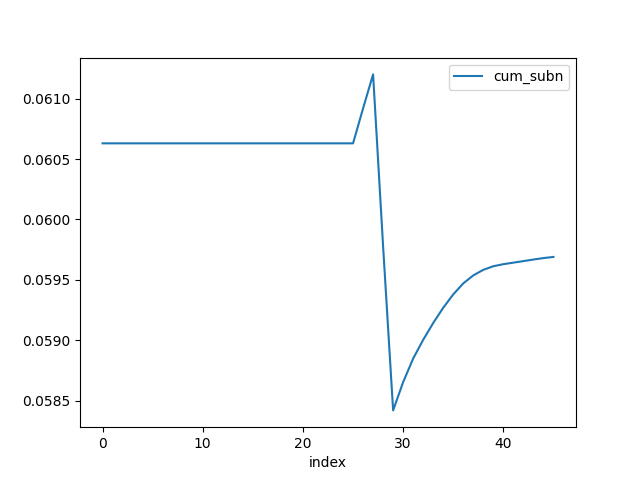
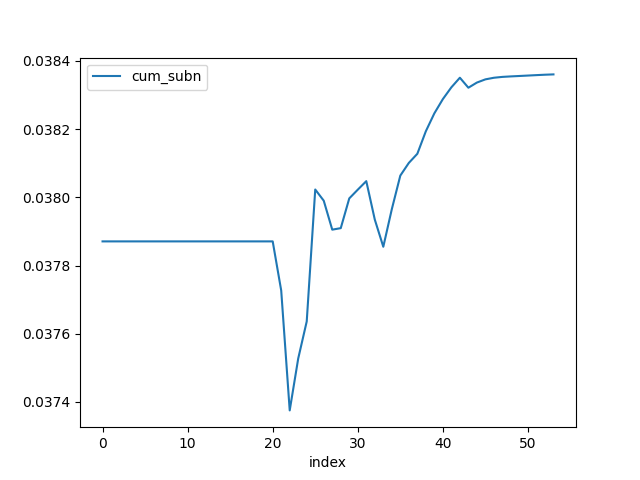
Using real cases for nowcasting ocupation

diff --git a/simulator/st_app_queue.py b/simulator/st_app_queue.py
@@ -4,7 +4,7 @@ import numpy as np
 import glob
 import os
 import base64
-from datetime import timedelta
+from datetime import timedelta, datetime
 
 from covid19 import data
 from covid19.utils import get_data_dir
@@ -196,16 +196,18 @@ def make_param_widgets_hospital_queue(location, w_granularity, defaults=DEFAULT_
             "available_rate_icu": available_rate_icu}
 
 @st.cache(show_spinner=False)
-def calculate_input_hospital_queue(model_output, sample_size, t_max, cases_df, place, date):
+def calculate_input_hospital_queue(model_output, sample_size, t_max, cases_df,real_cases, place, date):
     S, E, I, R, t = model_output
-    
-    previous_cases = cases_df[place]
-
+    real_cases_df = real_cases[0]
+    for i in range(real_cases_df['date'].shape[0]):
+        real_cases_df['date'].iloc[i] = datetime.strptime(real_cases_df['date'].iloc[i], '%Y-%m-%d')
+    real_cases_df = real_cases_df.set_index('date')
+    previous_cases = real_cases_df['real_newCases']
     # Formatting previous dates
     all_dates = pd.date_range(start=MIN_DATA_BRAZIL, end=date).strftime('%Y-%m-%d')
     all_dates_df = pd.DataFrame(index=all_dates,
                                 data={"dummy": np.zeros(len(all_dates))})
-    previous_cases = all_dates_df.join(previous_cases, how='left')['newCases']
+    previous_cases = all_dates_df.join(previous_cases, how='left')['real_newCases']
     cut_after = previous_cases.shape[0]
     
     # Calculating newly infected for all samples
@@ -234,14 +236,15 @@ def calculate_input_hospital_queue(model_output, sample_size, t_max, cases_df, p
 
     # Formatting the final otput
     df = (df
-          .assign(newly_infected_mean=df['newly_infected_mean'].combine_first(df['newCases']))
-          .assign(newly_infected_upper=df['newly_infected_upper'].combine_first(df['newCases']))
-          .assign(newly_infected_lower=df['newly_infected_lower'].combine_first(df['newCases']))
+          .assign(newly_infected_mean=df['newly_infected_mean'].combine_first(df['real_newCases']))
+          .assign(newly_infected_upper=df['newly_infected_upper'].combine_first(df['real_newCases']))
+          .assign(newly_infected_lower=df['newly_infected_lower'].combine_first(df['real_newCases']))
           .assign(newly_infected_lower=lambda df: df['newly_infected_lower'].clip(lower=0))
-          .drop(columns=['newCases', 'newly_infected_std'])
+          .drop(columns=['real_newCases', 'newly_infected_std'])
           .reset_index()
           .rename(columns={'index':'day'}))
-
+    df = df.fillna(method='ffill')
+    df = df.fillna(0)
     return df, cut_after
 
 
@@ -254,10 +257,9 @@ def run_queue_simulation_cached(dataset, cut_after, params_simulation, reported_
 
         for idx, row in df.iterrows():
 
-            if idx < cut_after:
-                df['hospitalizados'].iloc[idx] = round(df[execution_columnm].iloc[idx] * params_simulation['confirm_admin_rate']/reported_rate)
-            else:
-                df['hospitalizados'].iloc[idx] = round(df[execution_columnm].iloc[idx] * (params_simulation['confirm_admin_rate']/100))
+            df['hospitalizados'].iloc[idx] = round(df[execution_columnm].iloc[idx] * (params_simulation['confirm_admin_rate']/100))
+            
+                
 
         bar_text = st.empty()
         bar = st.progress(0)
@@ -281,6 +283,7 @@ def run_queue_model(model_output,
                     t_max,
                     reported_rate,
                     cases_df,
+                    real_cases,
                     w_place,
                     w_date,
                     params_simulation):
@@ -292,6 +295,7 @@ def run_queue_model(model_output,
                                                                 sample_size,
                                                                 t_max,
                                                                 cases_df,
+                                                                real_cases,
                                                                 w_place,
                                                                 w_date)
 
@@ -302,6 +306,7 @@ def build_queue_simulator(w_date,
                           w_location,
                           cases_df,
                           w_location_granulariy,
+                          real_cases,
                           seir_output,
                           reported_rate):
     
@@ -318,6 +323,7 @@ def build_queue_simulator(w_date,
                                                         t_max,
                                                         reported_rate,
                                                         cases_df,
+                                                        real_cases,
                                                         w_location,
                                                         w_date,
                                                         params_simulation)
@@ -362,8 +368,12 @@ def build_queue_simulator(w_date,
         st.altair_chart(make_simulation_chart(plot_output, "Occupied_beds", "Leitos Comuns Ocupados COVID"))
         st.altair_chart(make_simulation_chart(plot_output, "ICU_Occupied_beds", "Leitos UTI Ocupados COVID"))
 
-        st.altair_chart(make_simulation_chart_ocup_rate(plot_output, "Occupied_beds", "Taxa de ocupação de leitos comuns (%)",params_simulation["available_rate"],params_simulation["available_rate_icu"]))
-        st.altair_chart(make_simulation_chart_ocup_rate(plot_output, "ICU_Occupied_beds", "Taxa de ocupação de leitos UTI (%)",params_simulation["available_rate"],params_simulation["available_rate_icu"]))
+        st.altair_chart(make_simulation_chart_ocup_rate(plot_output, "Occupied_beds", "Taxa de ocupação de leitos comuns (%)",
+                                                        params_simulation["total_beds"],params_simulation["total_beds_icu"],
+                                                        params_simulation["available_rate"],params_simulation["available_rate_icu"]))
+        st.altair_chart(make_simulation_chart_ocup_rate(plot_output, "ICU_Occupied_beds", "Taxa de ocupação de leitos UTI (%)",
+                                                        params_simulation["total_beds"],params_simulation["total_beds_icu"],
+                                                        params_simulation["available_rate"],params_simulation["available_rate_icu"]))
 
         st.altair_chart(make_simulation_chart(plot_output, "Queue", "Fila de pacientes"))
         st.altair_chart(make_simulation_chart(plot_output, "ICU_Queue", "Fila de pacientes UTI"))

diff --git a/simulator/st_utils/viz.py b/simulator/st_utils/viz.py
@@ -163,7 +163,6 @@ def make_simulation_chart(simulation_output, metric, title):
         
         metric_capacity = {"Occupied_beds": "Capacity",
                            "ICU_Occupied_beds": "Capacity_ICU"}
-        #st.write(simulation_output.head())
         chart_beds = (alt.Chart(simulation_output,
                         width=600,
                         height=300,
@@ -175,8 +174,6 @@ def make_simulation_chart(simulation_output, metric, title):
                                     labelAngle=45)),
                             y=alt.Y(f"{metric}:Q",
                                     title=metric_name[metric]),
-                            #y2=alt.Y(f"{metric_capacity[metric]}:Q",
-                            #        title=metric_capacity[metric]),
                             color="description"))
         capacity = (alt.Chart(simulation_output,
                         width=600,
@@ -187,11 +184,8 @@ def make_simulation_chart(simulation_output, metric, title):
                                     title="Data",
                                     axis=alt.Axis(format = ("%d/%m"),
                                     labelAngle=45)),
-                            #y=alt.Y(f"{metric}:Q",
-                            #        title=metric_name[metric]),
                             y=alt.Y(f"{metric_capacity[metric]}:Q"),
                             color="description"))
-        #chart_beds = chart_beds.configure_axisRight(disable=False, title='Taxa de Ocupação')
         chart_beds_capacity = (chart_beds+capacity)
         return ((chart_beds_capacity)
                     .configure_title(fontSize=16)
@@ -215,7 +209,7 @@ def make_simulation_chart(simulation_output, metric, title):
                     .configure_axis(labelFontSize=12, titleFontSize=12)
                     .configure_legend(labelFontSize=14, titleFontSize=14))   
 
-def make_simulation_chart_ocup_rate(simulation_output, metric, title,ocup_bed,ocup_icu):
+def make_simulation_chart_ocup_rate(simulation_output, metric, title,total_bed,total_icu,ocup_bed,ocup_icu):
 
     metric_name = {"Occupied_beds": "Leitos Ocupados",
                    "ICU_Occupied_beds": "Leitos Ocupados (UTI)",
@@ -224,28 +218,19 @@ def make_simulation_chart_ocup_rate(simulation_output, metric, title,ocup_bed,oc
     
     if metric in ("Occupied_beds","ICU_Occupied_beds"):
 
+        metric_total = {"Occupied_beds": total_bed,
+                       "ICU_Occupied_beds": total_icu}
+
         metric_ocup = {"Occupied_beds": ocup_bed,
                        "ICU_Occupied_beds": ocup_icu}
         
         metric_capacity = {"Occupied_beds": "Capacity",
                            "ICU_Occupied_beds": "Capacity_ICU"}
-        #st.write(simulation_output.head())
-        capacity_bed_tot = simulation_output[f"{metric_capacity[metric]}"].iloc[0]/metric_ocup[metric]
+        
+        
+        capacity_bed_tot = metric_total[metric]
         simulation_output[f"{metric}_rate"] = 100*((1-metric_ocup[metric])+(simulation_output[f"{metric}"])/capacity_bed_tot)
-        chart_beds = (alt.Chart(simulation_output,
-                        width=600,
-                        height=300,
-                        title=title)
-                    .mark_line()
-                    .encode(x=alt.X("day:T",
-                                    title="Data",
-                                    axis=alt.Axis(format = ("%d/%m"),
-                                    labelAngle=45)),
-                            y=alt.Y(f"{metric}:Q",
-                                    title=metric_name[metric]),
-                            #y2=alt.Y(f"{metric_capacity[metric]}:Q",
-                            #        title=metric_capacity[metric]),
-                            color="description"))
+        
         ocup_rate_beds = (alt.Chart(simulation_output,
                         width=600,
                         height=300,
@@ -257,24 +242,8 @@ def make_simulation_chart_ocup_rate(simulation_output, metric, title,ocup_bed,oc
                                     labelAngle=45)),
                             y=alt.Y(f"{metric}_rate:Q",
                                     title=metric_name[metric]),
-                            #y2=alt.Y(f"{metric_capacity[metric]}:Q",
-                            #        title=metric_capacity[metric]),
                             color="description"))
-        capacity = (alt.Chart(simulation_output,
-                        width=600,
-                        height=300,
-                        title=title)
-                    .mark_line(strokeDash=[1,1])
-                    .encode(x=alt.X("day:T",
-                                    title="Data",
-                                    axis=alt.Axis(format = ("%d/%m"),
-                                    labelAngle=45)),
-                            #y=alt.Y(f"{metric}:Q",
-                            #        title=metric_name[metric]),
-                            y=alt.Y(f"{metric_capacity[metric]}:Q"),
-                            color="description"))
-        #chart_beds = chart_beds.configure_axisRight(disable=False, title='Taxa de Ocupação')
-        chart_beds_capacity = (chart_beds+capacity)
+        
         return ((ocup_rate_beds)
                     .configure_title(fontSize=16)
                     .configure_axis(labelFontSize=12, titleFontSize=12)

diff --git a/simulator/st_app.py b/simulator/st_app.py
@@ -8,6 +8,9 @@ import st_app_queue
 
 from datetime import datetime
 
+from covid19.regressions import spline_poisson
+import under_report as ur
+
 def create_basic_sidebar(): 
 
     MIN_DATA_BRAZIL = '2020-03-26'
@@ -62,6 +65,7 @@ def create_basic_sidebar():
         format_func=format_local)
 
     cases_df = data.load_cases(w_location_granularity)
+    
 
     if w_location_granularity == 'city':
 
@@ -93,10 +97,13 @@ def create_basic_sidebar():
                                   index=len(options_date)-1,
                                   format_func=format_date)
 
+    real_cases = ur.estimate_subnotification(w_location,w_date,w_location_granularity,period=True)
+
     return {"location_granularity": w_location_granularity,
             "date": w_date,
             "location": w_location,
             "cases": cases_df,
+            "real_cases": real_cases,
             "population": population_df,
             "r0_model": w_r0_model,
             "seir_model": w_seir_model,
@@ -105,7 +112,7 @@ def create_basic_sidebar():
 if __name__ == '__main__':
 
     my_placeholder = st.empty()
-    my_placeholder.markdown(texts.INTRODUCTION)
+    my_placeholder.markdown(texts.new_INTRODUCTION)
 
     base_parameters = create_basic_sidebar()
 
@@ -115,7 +122,7 @@ if __name__ == '__main__':
         r0_samples, place = st_app_r0.build_r0(base_parameters['date'],
                                                      base_parameters["location"],
                                                      base_parameters["cases"],
-                                                     base_parameters["location_granularity"])
+                                                     base_parameters["real_cases"])
     
     if base_parameters['seir_model']:
         my_placeholder.markdown("")
@@ -124,7 +131,7 @@ if __name__ == '__main__':
             r0_samples, _ = st_app_r0.estimate_r0(base_parameters['date'],
                                                   base_parameters["location"],
                                                   base_parameters["cases"],
-                                                  base_parameters['location_granularity'])
+                                                  base_parameters['real_cases'])
     
         seir_output, reported_rate = st_app_seir.build_seir(base_parameters['date'],
                                                             base_parameters["location"],
@@ -141,7 +148,7 @@ if __name__ == '__main__':
             r0_samples, _ = st_app_r0.estimate_r0(base_parameters['date'],
                                                   base_parameters["location"],
                                                   base_parameters["cases"],
-                                                  base_parameters['location_granularity'])
+                                                  base_parameters['real_cases'])
             r0_dist = r0_samples[:, -1]
             seir_output, reported_rate, _ = st_app_seir.run_seir(base_parameters['date'],
                                                                  base_parameters["location"],
@@ -153,11 +160,12 @@ if __name__ == '__main__':
                                                                  sample_size=st_app_seir.SAMPLE_SIZE,
                                                                  reported_rate=None,
                                                                  NEIR0=None)
-
+        
         st_app_queue.build_queue_simulator(base_parameters['date'],
                                            base_parameters["location"],
                                            base_parameters["cases"],
                                            base_parameters["location_granularity"],
+                                           base_parameters['real_cases'],
                                            seir_output,
                                            reported_rate)
     st.markdown(texts.DATA_SOURCES)

diff --git a/simulator/st_app_r0.py b/simulator/st_app_r0.py
@@ -26,19 +26,22 @@ def prepare_for_r0_estimation(df):
             .set_index('dates')
     )
 
-def load_incidence_by_location(cases_df, date, location, w_granularity,min_casest_th):
+def load_incidence_by_location(cases_df, date, location, real_cases,min_casest_th):
     
-    df,place = ur.estimate_subnotification(location, date,w_granularity,period=True)
+    df,place = real_cases
     df = df.reset_index()
     
     #df.plot(kind='line',x='index',y=['newCases','newCases_regression'])
     #plt.savefig("newCases.png")
 
+    #df.plot(kind='line',x='index',y=['newCases','newCases_regression','real_newCases'])
+    #plt.savefig("real_newCases.png")
+
     #df.plot(kind='line',x='index',y=['cum_subn'])
     #plt.savefig("cum_subn.png")
 
 
-    return df.pipe(prepare_for_r0_estimation) , place
+    return df.pipe(prepare_for_r0_estimation) ,place
     
 
 #def load_incidence(cases_df):
@@ -51,12 +54,12 @@ def load_incidence_by_location(cases_df, date, location, w_granularity,min_cases
 def estimate_r0(w_date,
                 w_location,
                 cases_df,
-                w_granularity):
+                real_cases):
     
     incidence,place = load_incidence_by_location(cases_df,
                                                 w_date,
                                                 w_location,
-                                                w_granularity,
+                                                real_cases,
                                                 rnd.MIN_CASES_TH)
 
 
@@ -75,13 +78,13 @@ def estimate_r0(w_date,
 def build_r0(w_date,
              w_location,
              cases_df,
-             w_granularity):
+             real_cases):
     
     st.markdown("# Número de reprodução básico")
     r0_samples, place = estimate_r0(w_date,
                                           w_location,
                                           cases_df,
-                                          w_granularity)
+                                          real_cases)
 
     if place != w_location:
         st.write(texts.r0_NOT_ENOUGH_DATA(w_location, w_date,place))

diff --git a/simulator/st_utils/texts.py b/simulator/st_utils/texts.py
@@ -13,6 +13,14 @@ Para mais detalhes sobre o modelo acesse a nossa [Nota Técnica](https://drive.g
 
 '''
 
+new_INTRODUCTION = '''
+
+### **Como começar**:
+
+No menu da barra à esquerda, selecione as projeções que deseja visualizar e altere os parâmetros para simular diferentes cenários.
+
+'''
+
 PARAMETER_SELECTION='''
 # Seleção de parâmetros
 Para simular outros cenários, altere um parâmetro e tecle **Enter**. O novo resultado será calculado e apresentado automaticamente.

diff --git a/simulator/hospital_queue/queue_simulation.py b/simulator/hospital_queue/queue_simulation.py
@@ -16,6 +16,7 @@ import gspread
 from oauth2client.service_account import ServiceAccountCredentials
 import numpy as np
 from datetime import datetime
+import streamlit as st
 
 def run_queue_simulation(data,bar, bar_text, params={}):
     covid_data = data

diff --git a/simulator/under_report.py b/simulator/under_report.py
@@ -6,7 +6,7 @@ import streamlit as st
 from covid19 import data
 from covid19.regressions import spline_poisson
 
-MIN_DEATH_SUBN = 10
+MIN_DEATH_SUBN = 5
 MIN_DATA_BRAZIL = '2020-03-26'
 FATAL_RATE_BASELINE = 0.00657 
 
